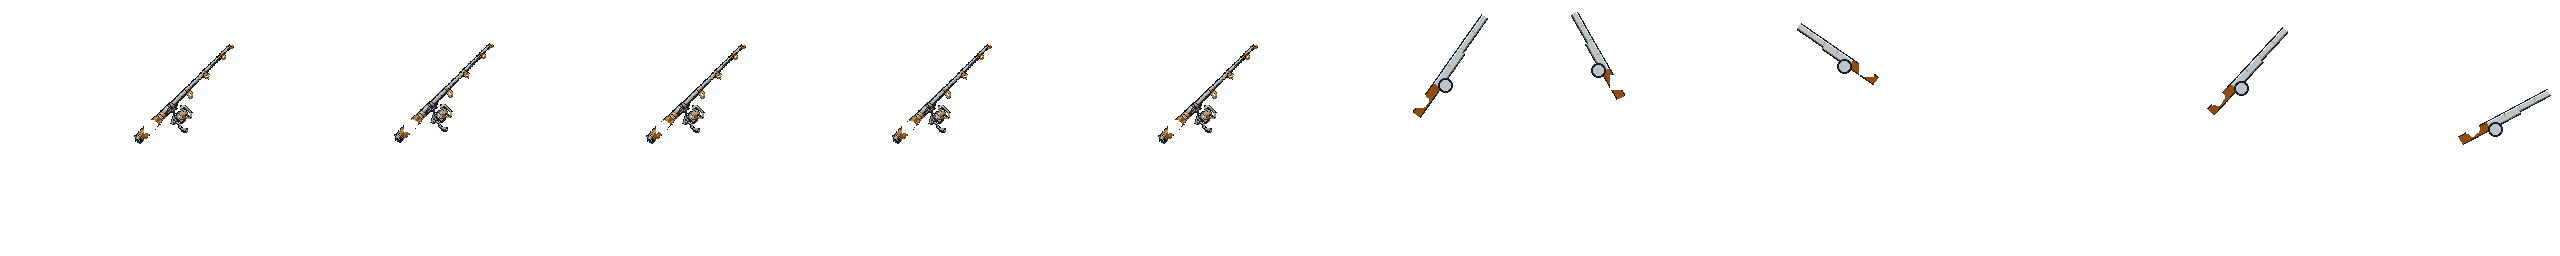
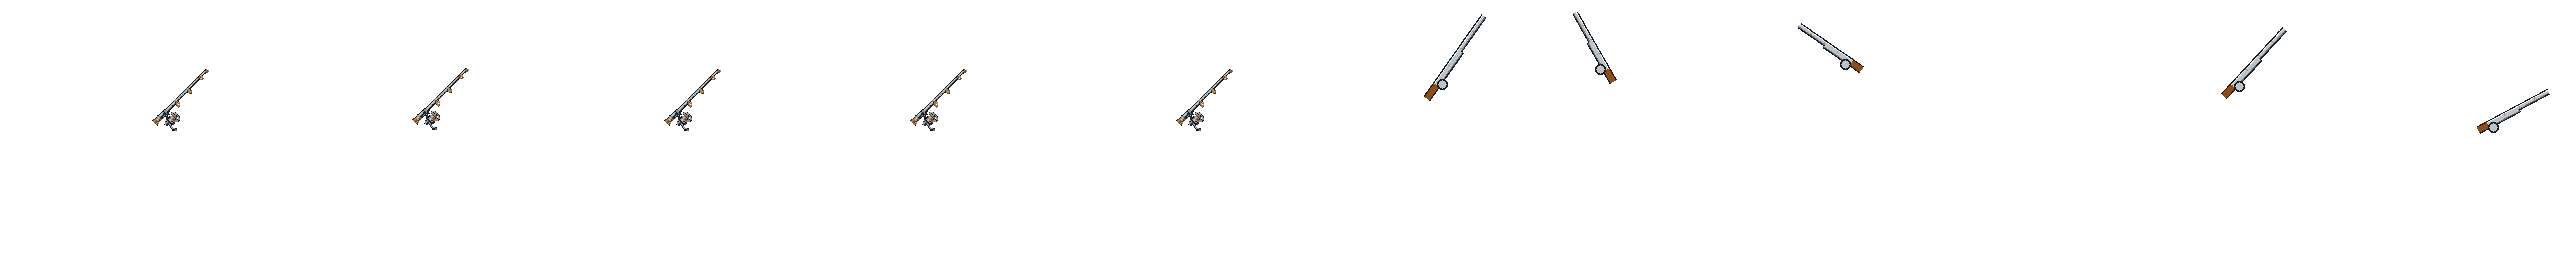
Rute: auf 0.7 verkleinert, gerader Schnitt an der Faust
Der Korkgriff war zehn Pixel dick, die ganze Faust nur zwoelf -- die Rute lag
neben der Hand statt in ihr. Auf 0.7 verkleinert sind es sieben, und der
Ruhelauf ist mit 81 Pixeln so lang wie die gemalten Wurfruten. Die
Zwischentoene, die LANCZOS an jede Kante mischt, werden auf die Palette der
Vorlage zurueckgeholt.

Der Schnitt an der Hand steht jetzt senkrecht auf der Rute und ist deshalb
gerade. Vorher folgte er dem Figurenumriss: das sah abgenagt aus, und das
Griffende lag quer ueber dem Unterarm. Getastet wird nur auf der Hautebene --
ueber den ganzen Umriss lief der Taster beim Wurf durch den Zopf weiter und
schnitt die halbe Rute ab.

diff --git a/tools/import_rod.py b/tools/import_rod.py
@@ -12,11 +12,12 @@ Winkel zu drehen macht es verwaschen oder ausgefranst -- drei Anlaeufe,
 alle verworfen.
 
 Die Hand fasst die Rute in der MITTE des Korkgriffs, nicht an ihrem Ende:
-der Ankerpunkt traegt den Schwerpunkt des Korks, das Griffende steht hinten
-aus der Faust heraus. Und sie fasst DURCH: wo die Figur eine Faust hat, wird
-die Rute weggenommen, sonst liegt sie wie ein Brett obenauf statt in der
-Hand. Dafuer liest dieses Werkzeug die fertigen Figurenblaetter --
-tools/import_character.py muss also vorher gelaufen sein.
+der Ankerpunkt traegt den Schwerpunkt des Korks. Alles, was hinter der Faust
+liegt, wird abgeschnitten -- mit EINEM geraden Schnitt quer zur Rute, dort
+wo die Faust in Rutenrichtung endet. Ein Schnitt entlang des Figurenumrisses
+sah aus wie abgenagt, und das Griffende lag dann quer ueber dem Unterarm.
+Wie weit die Faust reicht, wird an den fertigen Figurenblaettern abgetastet
+-- tools/import_character.py muss also vorher gelaufen sein.
 
     python3 tools/import_rod.py
 """
@@ -35,17 +36,18 @@ OUT = os.path.join(ROOT, "assets", "art")
 ## eine Silberrute mit silbernem Griff waere ein Barren, keine Rute.
 SHAFT_TONES = [None, "6b4a2c", "b9c3c8"]
 
-## Wie weit die Faust um den Ankerpunkt herum reicht -- an der gezeichneten
-## Figur abgelesen (nach hinten sechs Pixel, nach vorn acht, oben und unten
-## je sieben). Nur in diesem Fenster wird die Rute weggenommen: weiter unten
-## kreuzt sie beim Wurf den Koerper, und dort gehoert sie nach vorn.
-HAND_BOX = (-6, -7, 8, 7)
-## Wie weit das Griffende bei den gemalten Wurfposen hinter der Hand steht.
-## Bei der gezeichneten Vorlage sind es fuenfzehn Pixel.
-BUTT = 15
-## Aus diesen Blaettern entsteht der Umriss der Figur.
-LAYER_SHEETS = ["char_skin_0", "char_pants_0", "char_shirt_0",
-                "char_hair_0", "char_base_0"]
+## So weit wird die Faust in Rutenrichtung abgetastet. Keine Hand ist
+## breiter; ein groesseres Fenster liefe beim Wurf in die Haare weiter.
+HAND_REACH = 14
+## Die Vorlage ist als eigenstaendiges Bild gezeichnet und fuellt ihre
+## Leinwand -- der Korkgriff war zehn Pixel dick, die ganze Faust nur zwoelf.
+## Auf 0.7 verkleinert sind es sieben, und die Rute liegt IN der Hand statt
+## neben ihr. Weiter herunter ging nicht: bei 0.6 zerfaellt die Rolle.
+SCALE = 0.7
+## Getastet wird NUR auf der Hautebene. Beim Wurf haelt sie die Rute neben
+## dem Kopf, und ueber den ganzen Umriss zu tasten lief durch den Zopf
+## weiter -- dann wurde die halbe Rute abgeschnitten.
+LAYER_SHEETS = ["char_skin_0"]
 
 def read_ints(name):
     head = "const %s: Array[Vector2i] = [" % name
@@ -83,6 +85,42 @@ def classify(img):
             else:
                 groups["shaft"].append((r, g, b))
     return groups
+
+def shrink(img):
+    """Verkleinert die Vorlage und holt die Farben zurueck.
+
+    Beim Verkleinern mischt LANCZOS Zwischentoene an jede Kante. Jeder Pixel
+    wird deshalb auf die naechste Farbe der Vorlage zurueckgesetzt, und was
+    halb durchsichtig geworden ist, faellt weg -- sonst franst die Rute aus.
+    """
+    palette = [c for n, c in img.convert("RGB").getcolors(1 << 16) if n]
+    n = max(1, round(img.size[0] * SCALE))
+    m = max(1, round(img.size[1] * SCALE))
+    out = img.resize((n, m), Image.LANCZOS)
+    px = out.load()
+    for y in range(m):
+        for x in range(n):
+            r, g, b, a = px[x, y]
+            if a < 110:
+                px[x, y] = (0, 0, 0, 0)
+                continue
+            best = min(palette, key=lambda c: (c[0] - r) ** 2 + (c[1] - g) ** 2
+                       + (c[2] - b) ** 2)
+            px[x, y] = best + (255,)
+    return out
+
+def tip_of(img):
+    """Die Spitze: der Punkt, der auf der Rutenachse am weitesten oben
+    rechts liegt."""
+    px = img.load()
+    best, high = (img.size[0] - 1, 0), None
+    for y in range(img.size[1]):
+        for x in range(img.size[0]):
+            if px[x, y][3] == 0:
+                continue
+            if high is None or x - y > high:
+                high, best = x - y, (x, y)
+    return best
 
 def butt_of(img):
     """Das Griffende der Vorlage: der Punkt, der auf der Rutenachse am
@@ -152,22 +190,49 @@ def figure_layers():
             out.append((img, img.load()))
     return out
 
-def cut_hand(sheet, frame, anchor, size, layers):
-    """Nimmt die Rute dort weg, wo die Faust ist.
+def hand_front(layers, frame, anchor, direction, size):
+    """Wie weit die Faust in Rutenrichtung reicht -- in Pixeln ab dem Anker.
 
-    Die Rute liegt als oberste Ebene ueber der Figur. Ohne diesen Schnitt
-    liegt sie auch ueber den Fingern -- und dann haelt die Anglerin sie
-    nicht, sie klebt an ihr.
+    Genau bis zum letzten Handpixel, nicht einen weiter: die Faust ist vorn
+    rund, die Schnittkante gerade. Ein Pixel Luft dazwischen sieht aus, als
+    schwebe die Rute neben der Hand.
+
+    Abgetastet statt geschaetzt: die Hand steht in jeder Pose woanders und
+    ist beim Wurf anders gedreht.
+    """
+    ax, ay = anchor
+    reach, miss = 0, 0
+    for k in range(HAND_REACH + 1):
+        x = int(round(ax + direction.real * k))
+        y = int(round(ay + direction.imag * k))
+        if not (0 <= x < size and 0 <= y < size):
+            break
+        if any(lp[frame * size + x, y][3] > 0 for _, lp in layers):
+            reach, miss = k, 0
+        else:
+            # Ein Loch ueberspringen (der Umriss hat Luecken), zwei nicht:
+            # sonst laeuft der Taster beim Wurf durch die Luft weiter in
+            # die Haare und schneidet die halbe Rute ab.
+            miss += 1
+            if miss > 1:
+                break
+    return reach
+
+def cut_behind_hand(sheet, frame, anchor, direction, front, size):
+    """Nimmt alles weg, was hinter der Faust liegt.
+
+    Ein Halbebenen-Schnitt: die Kante steht senkrecht auf der Rute und ist
+    deshalb gerade, egal wie die Rute liegt.
     """
     ox = frame * size
     ax, ay = anchor
     px = sheet.load()
-    x0, y0, x1, y1 = HAND_BOX
-    for y in range(ay + y0, ay + y1 + 1):
-        for x in range(ax + x0, ax + x1 + 1):
-            if not (0 <= x < size and 0 <= y < size):
+    for y in range(size):
+        for x in range(size):
+            if px[ox + x, y][3] == 0:
                 continue
-            if any(lp[ox + x, y][3] > 0 for _, lp in layers):
+            along = (x - ax) * direction.real + (y - ay) * direction.imag
+            if along < front:
                 px[ox + x, y] = (0, 0, 0, 0)
 
 def draw_cast(sheet, frame, anchor, tip, size, tones):
@@ -187,22 +252,11 @@ def draw_cast(sheet, frame, anchor, tip, size, tones):
         if 0 <= x < size and 0 <= y < size:
             px[ox + x, y] = color + (255,)
 
-    # Das Griffende steht hinten aus der Faust heraus, wie bei der
-    # gezeichneten Vorlage. Ohne das waechst die Rute aus der Faust heraus.
-    butt = a - direction * BUTT
-    steps_butt = BUTT * 3
-    for i in range(steps_butt + 1):
-        p = butt + (a - butt) * (i / steps_butt)
-        for k in range(8):
-            put(p + down * k, tones["cork"])
-        put(p - down, tones["outline"])
-        put(p + down * 8, tones["outline"])
-
     steps = int(length * 3)
     for i in range(steps + 1):
         t = i / steps
         p = a + (b - a) * t
-        thick = 8 if t < 0.6 else 6
+        thick = 6 if t < 0.6 else 4
         for k in range(thick):
             q = p + down * k
             if t < 0.20:
@@ -217,15 +271,15 @@ def draw_cast(sheet, frame, anchor, tip, size, tones):
         put(p + down * thick, tones["outline"])
     for r in (0.42, 0.62, 0.82):
         p = a + (b - a) * r
-        for k in range(4):
+        for k in range(3):
             put(p + down * k, tones["brass"])
-    reel = a + (b - a) * 0.24 + down * 10
-    for dy in range(-7, 8):
-        for dx in range(-7, 8):
+    reel = a + (b - a) * 0.24 + down * 7
+    for dy in range(-6, 7):
+        for dx in range(-6, 7):
             d = math.hypot(dx, dy)
-            if d <= 7.5:
+            if d <= 5.5:
                 put(reel + complex(dx, dy),
-                    tones["outline"] if d > 5.5 else tones["shaft"])
+                    tones["outline"] if d > 4.0 else tones["shaft"])
 
 def main():
     rod = Image.open(SOURCE).convert("RGBA")
@@ -243,10 +297,15 @@ def main():
         "shaft": average(groups["shaft"], (70, 76, 86)),
     }
 
+    small = shrink(rod)
+    gx, gy = grip_of(small)
+    tx, ty = tip_of(small)
+    print("ROD_TIP_OFF Ruhelauf: Vector2i(%d, %d)" % (tx - gx, ty - gy))
+
     for variant, tone in enumerate(SHAFT_TONES):
         target = tuple(int(tone[i:i + 2], 16) for i in (0, 2, 4)) if tone else None
         sheet = Image.new("RGBA", (size * frames, size), (0, 0, 0, 0))
-        art = rod.copy()
+        art = small.copy()
         if target:
             px = art.load()
             for y in range(art.size[1]):
@@ -268,7 +327,11 @@ def main():
         for f in range(idle, frames):
             draw_cast(sheet, f, anchors[f], tips[f], size, tones)
         for f in range(frames):
-            cut_hand(sheet, f, anchors[f], size, layers)
+            tip = tips[f]
+            d = complex(tip[0], tip[1])
+            d = d / abs(d)
+            front = hand_front(layers, f, anchors[f], d, size)
+            cut_behind_hand(sheet, f, anchors[f], d, front, size)
         sheet.save(os.path.join(OUT, "char_rod_%d.png" % variant))
     print("%d Rutenblaetter geschrieben" % len(SHAFT_TONES))
 
